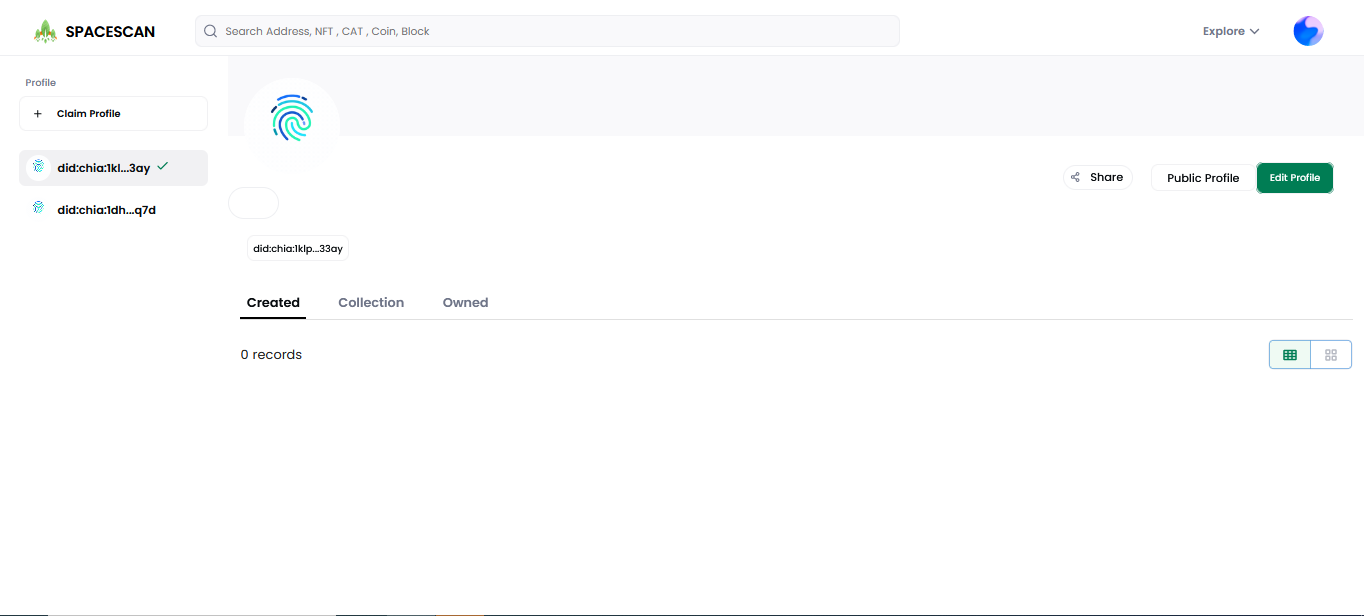
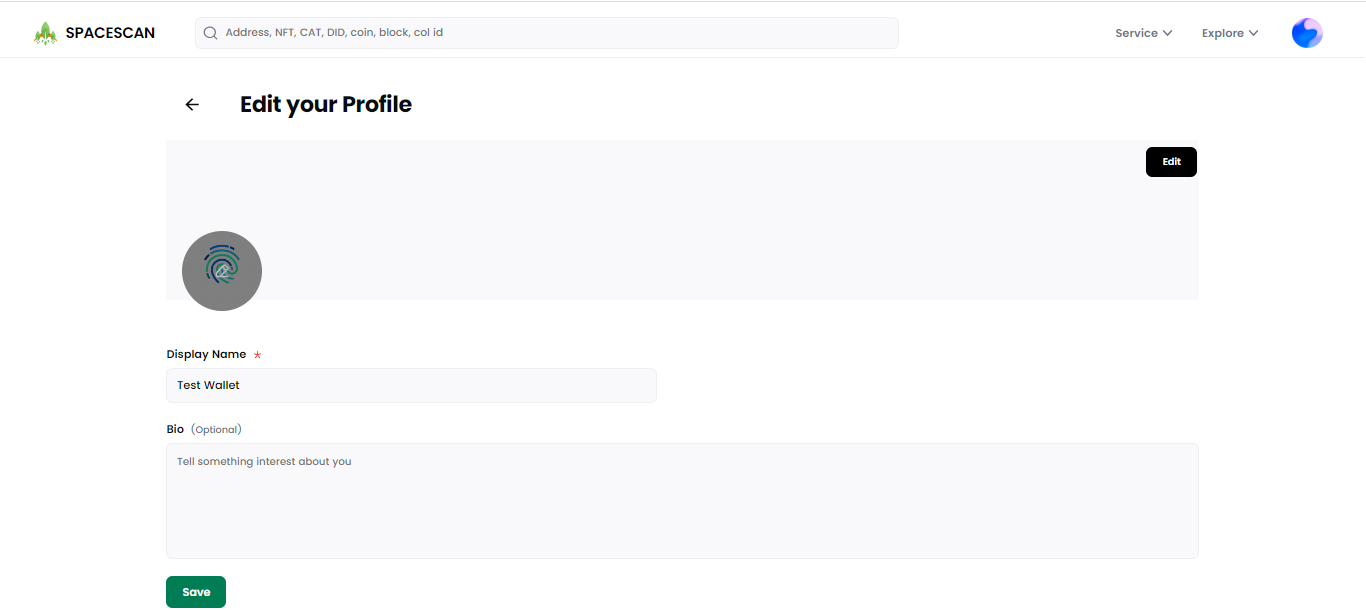
New DID guide

diff --git a/docs/guide/chia_did_profile/chia_did_profile.md b/docs/guide/chia_did_profile/chia_did_profile.md
@@ -9,37 +9,75 @@ sidebar_position: 6
 
 ** This feature still in Beta so expect some glitches. [Reach team here for support](https://www.spacescan.io/contact-us) **
 
-### 1) Go to [**myprofile in spacescan.io**](https://www.spacescan.io/myprofile)
-Click "connect wallet"then Popup shows QR code ,click "copy to clipboard"
+### 1) Two ways to reach the claim DID 
+i) Go to [**myprofile in spacescan.io**](https://www.spacescan.io/myprofile) 
+
+ii) select My profile icon in the top right corner of spacescan.io ,then click DID profile
+
+![Alt text](did_edit_1.PNG)
+
+Click "connect wallet"
 
 ![My profile in spacescan](did_claim_1.png)
 
-![copy QR code](did_claim_2.png)
+then Popup shows QR code ,click "copy to clipboard"
 
-### 2) Connect Chia wallet with Spacescan.io using the copied connect QR code
+
+
+### 2) Connect Chia wallet with Spacescan.io
+If wallet already connected, skip the step:2 jump to step:3
+ Copy the QR code
+![Alt text](did_claim_2.png)
+
+Open the chia wallet click "Add connection"
 ![Add connection](did_claim_3.png)
+
+Paste (ctrl+v) the copied code
 ![paste the link](did_claim_4.png)
+Choose the wallet
 ![choosing the wallet](did_claim_5.png)   
-If you connected with wallet already skip the above steps and click DID profile from wallet connected icon move to chia wallet to create a DID
+
 
 ### 3) Create DID profile in chia wallet
+If DID already created then jump to step:4
+Open the chia wallet,select settings then move to the PROFILES(DID) tab,click create profile(+).Enter the name of the DID and select the fee,hit the create button.
+
 ![create the DID](did_claim1.png)
+
+Now you can see the created DID,Copy the DID to claim in spacescan.io
 ![Copy the DID](did_claim2.png)
 
 ### 4) Move to [**spacescan.io**](https://www.spacescan.io/myprofile) to claim the created DID
+Click "Add DID profile"
+
+![Alt text](did_claim-7.1.png)
+
 Paste the DID that you were copied from chia wallet
+Sign in message will pop up
+
 ![sign in wallet](did_claim_7.png)
 
 ![sign in message](did_claim_8.png)
+
 Confirm the DID in chia wallet
+
 ![confirmtion message in wallet](did_claim_9.png)
 ### 5) Move to spacescan.io to Edit and customize the DID
-You can see the claimed DID, you can edit,customize ,view public view of your DID
+
+User will land in the Edit page of claimed DID.You can customize the details.
+
 ![claimed DID](did_claim_10.png)
 
+![Alt text](did_claim_10.1.png)
 
-![Edit DID](did_claim_11.png)
-### 6) Share the DID by click on the public profile in DID profile page
+
+### 6) Claimed DID
+After edit the DID details,You can see the claimed DID.
+![Alt text](did_claim_12.1.PNG)
+
+To view of your DID just click on the DID or select "View address" from the meat ball menu icon
+
+![Alt text](did_claim_12.2.PNG)
 ![Public view of DID](did_claim_12.png)
 
 
